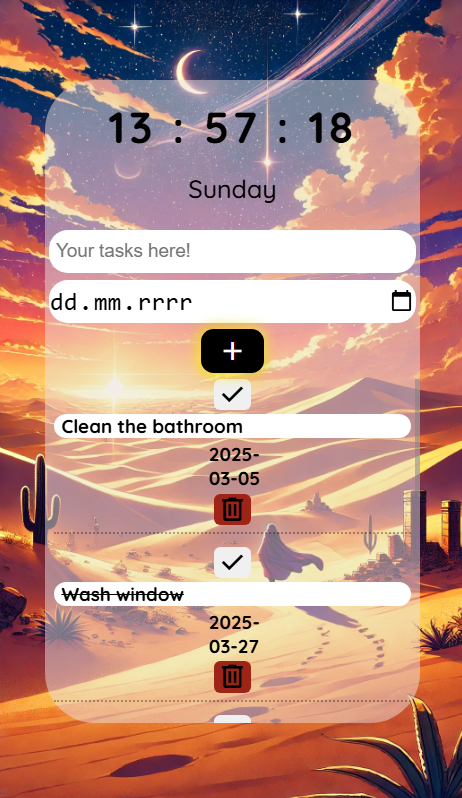
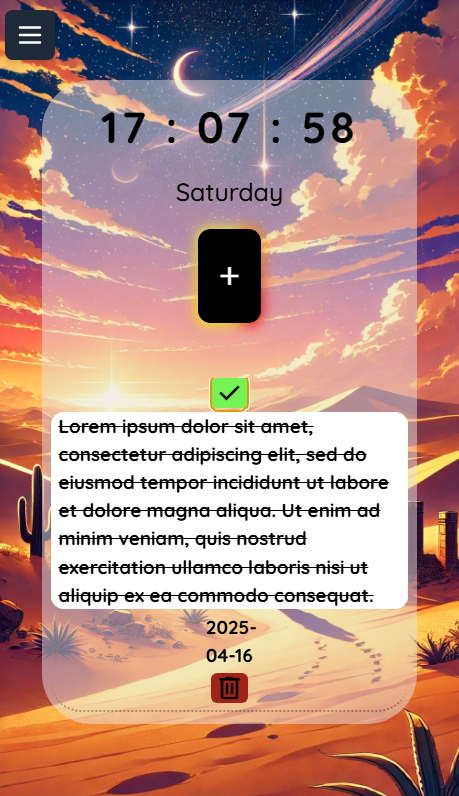
Update Readme

diff --git a/index.html b/index.html
@@ -14,7 +14,7 @@
 
   </head>
   <body class="m-0 p-0 box-border">
-    <div id="root" class="bg-[url('assets/wallpaper.png')] bg-no-repeat bg-fixed bg-cover w-screen h-screen flex justify-center items-center"></div>
+    <div id="root" class="bg-[url('assets/wallpaper_phone.png')] bg-no-repeat bg-fixed bg-cover w-screen h-screen flex justify-center items-center sm:bg-[url('assets/wallpaper.png')]"></div>
     <script type="module" src="/src/main.jsx"></script>
   </body>
 </html>

diff --git a/README.md b/README.md
@@ -1,4 +1,4 @@
-# ✅ Todo React App  - (React, HTML/CSS, Vite)
+# ✅ Todo React App  - (React, HTML, CSS/Tailwind, Vite)
 
 Responsywna aplikacja do zarządzania zadaniami (To-Do App) stworzona w React.
 
@@ -8,14 +8,15 @@ Responsywna aplikacja do zarządzania zadaniami (To-Do App) stworzona w React.
 ![Screenshot Mobile](./screenshots/mobile.png)
 
 ## ✨ Funkcjonalności
-* **Dodawanie** nowych zadań
+* **Dodawanie** nowych zadań z datą wykonania
 * **Oznaczanie** zadań jako wykonane
 * **Usuwanie** zadań z listy
+* **Sortowanie** zadań po dacie, statusie lub dacie wykonania
 * **Intuicyjny i responsywny interfejs użytkownika**
 
 ## 🛠 Technologie
 * **React** – biblioteka do budowy interfejsu użytkownika
-* **CSS** – stylowanie aplikacji
+* **CSS/Tailwind** – stylowanie aplikacji
 * **Vite** – szybkie środowisko dla React
 * **JavaScript (ES6+)** – logika aplikacji
 
